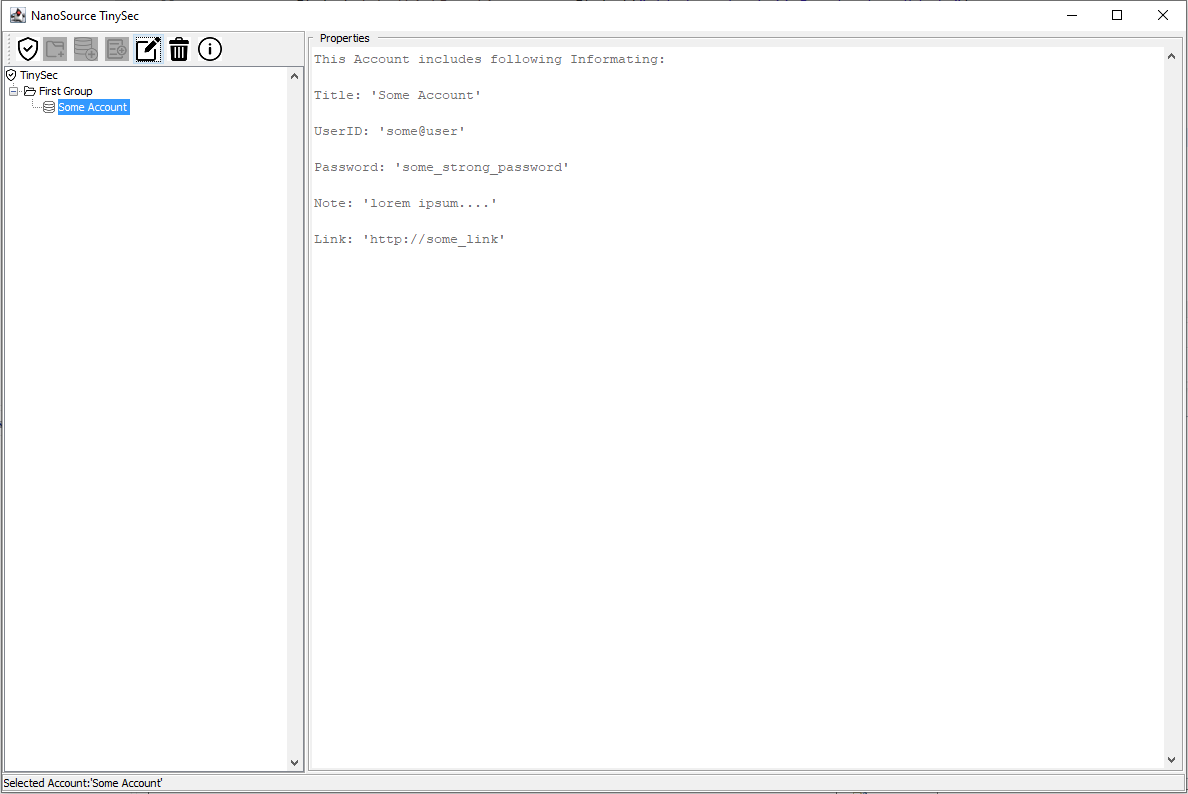
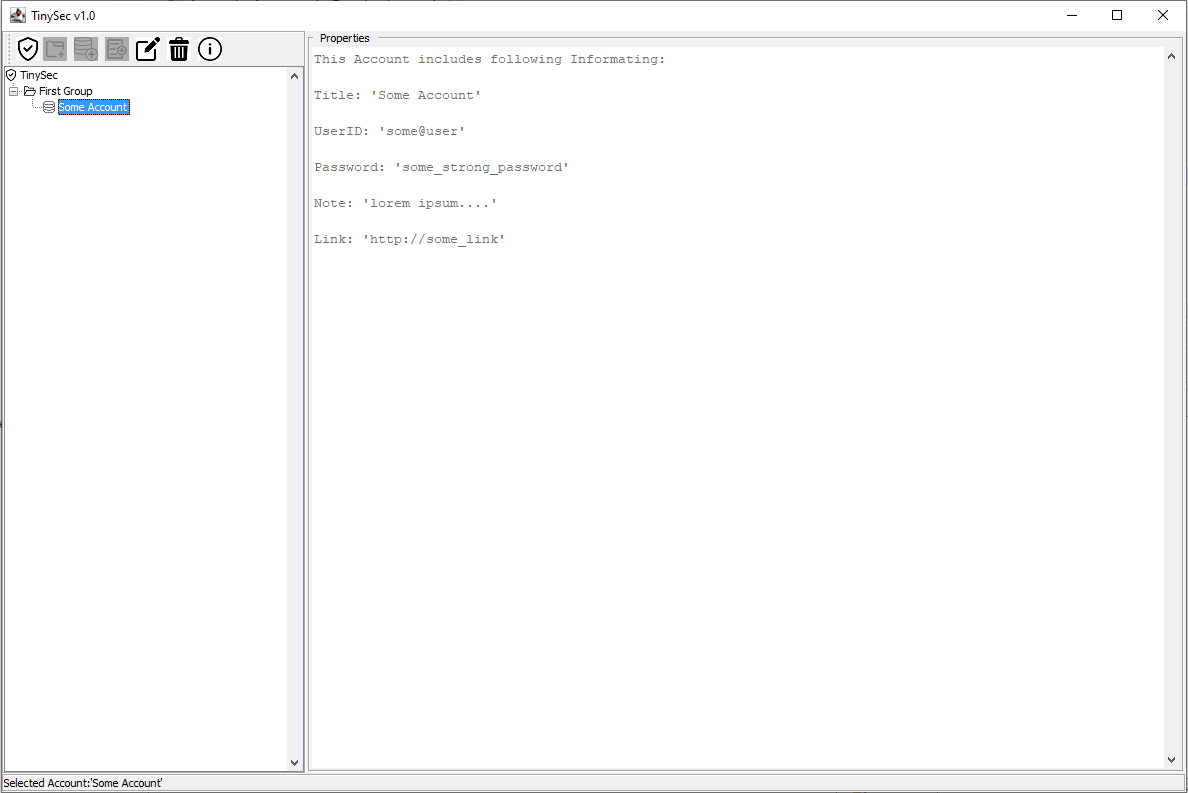
changed title and screenshot

diff --git a/src/tinysec/TSWindow.java b/src/tinysec/TSWindow.java
@@ -25,7 +25,7 @@ public class TSWindow extends JFrame {
 		if (instance != null) {
 			return instance;
 		}
-		instance = new TSWindow("NanoSource TinySec");
+		instance = new TSWindow("TinySec v1.0");
 		return instance;
 	}
 
